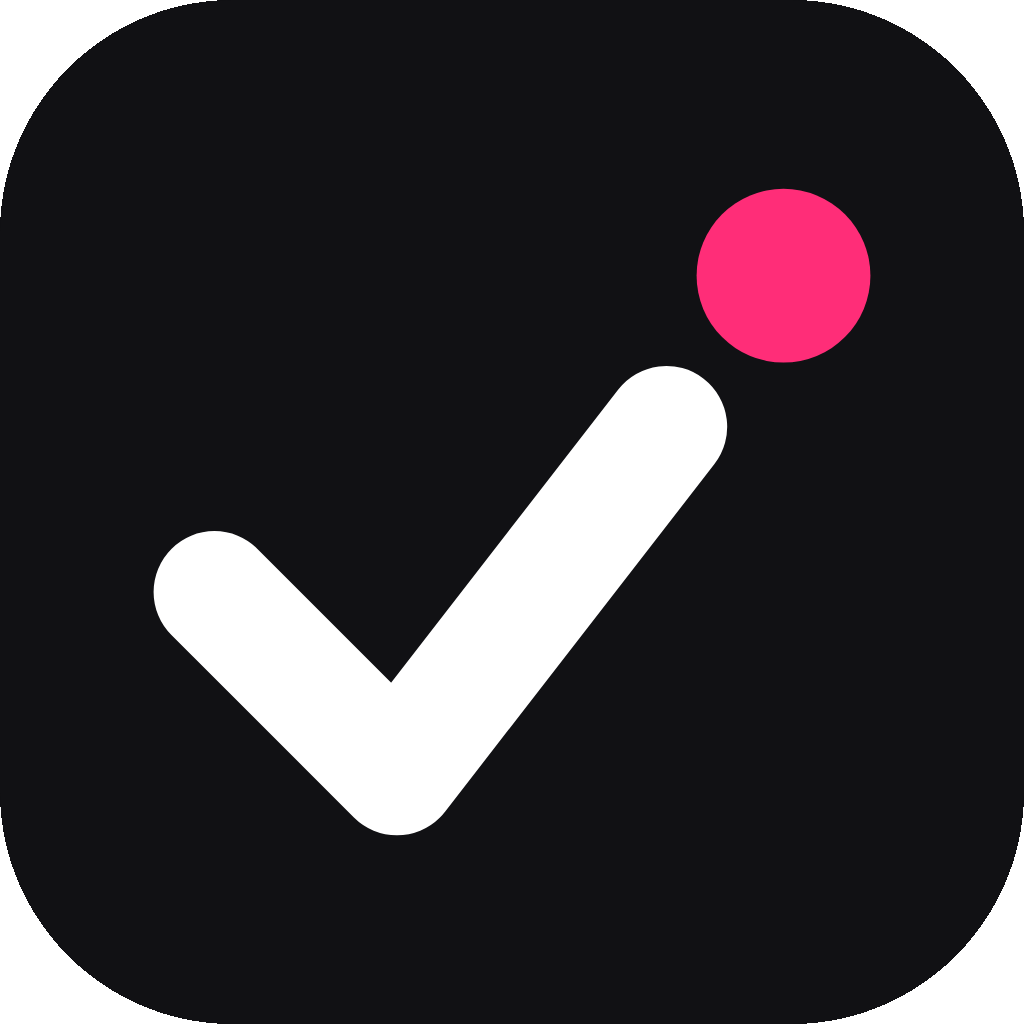
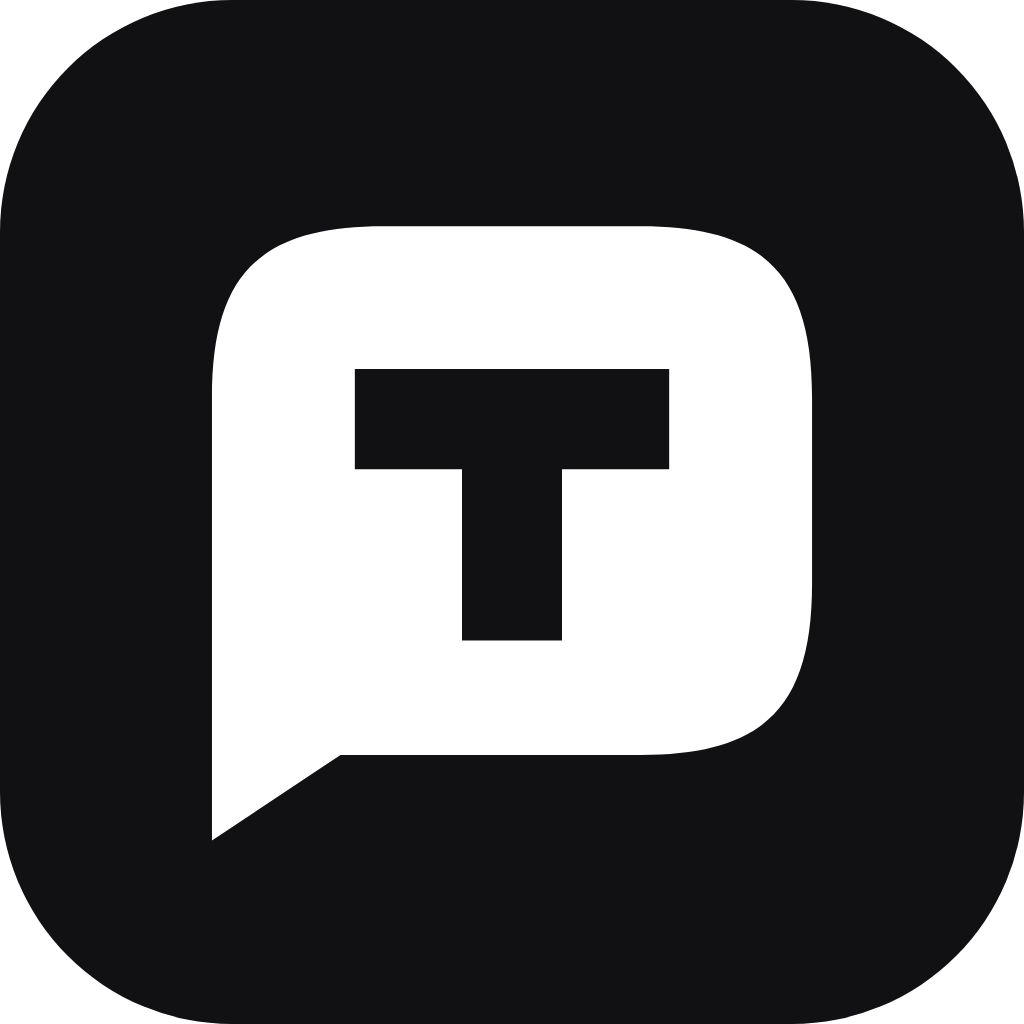
feat(brand): replace the "Call it" check with the First Word mark
A speech tile with a T knocked out, its bottom-left corner running out
to a point: making your call is the brand gesture, and the T keeps it
ours rather than a generic chat icon. Refined by hand from the GPT
concept the team picked (option B, "Corner").

- One colour: ink on light, warm white on dark. Pink stays on the
  wordmark's period and never goes on the mark (a magenta T is
  T-Mobile's territory), so the unused pink "brand" tone is removed.
- BrandMark size is now the mark's height (84 x 86 box); call sites move
  to 24px in headers beside 18px type. Height is set inline because
  Tailwind preflight's img { height: auto } would otherwise paint the
  SVG at its intrinsic size.
- Favicon is the bare mark, flipping to warm white on dark tabs;
  icon.png / apple-icon.png / taptrade-app-icon.svg are an ink tile with
  the mark in white.
- MARK_VERSION bumps to first-word-1 so cached /brand/* URLs refresh.

Changed region(s): [[0.125, 0.1875, 0.875, 0.8125]]

diff --git a/apps/taptrade-platform/frontend/packages/app/app/__tests__/brand-mark.test.ts b/apps/taptrade-platform/frontend/packages/app/app/__tests__/brand-mark.test.ts
@@ -1,49 +1,55 @@
 /**
- * Brand mark — "Call it" (2026-09-24): a check whose long stroke launches
- * into the pink tap dot. Pins the artwork's anatomy and colours so the
- * mark cannot drift back to the retired staircase glyph.
+ * Brand mark — "First Word" (2026-09-26): a speech tile with a T knocked
+ * out, its corner running out to a point. Pins the artwork's anatomy and
+ * colours so the mark cannot drift back to a retired glyph (the staircase,
+ * the "Call it" check) or pick up a pink T.
  */
 import { describe, it } from "node:test";
 import assert from "node:assert/strict";
-import { readFileSync } from "node:fs";
+import { existsSync, readFileSync } from "node:fs";
 import { resolve } from "node:path";
 
 const appRoot = resolve(__dirname, "..");
 const read = (rel: string) => readFileSync(resolve(appRoot, rel), "utf-8");
 
-describe("Call it brand mark", () => {
+describe("First Word brand mark", () => {
   const ink = read("../public/brand/taptrade-mark-ink.svg");
   const light = read("../public/brand/taptrade-mark-light.svg");
   const favicon = read("icon.svg");
   const icon = read("../public/brand/taptrade-app-icon.svg");
   const component = read("components/BrandMark.tsx");
 
-  it("is a round-stroked check plus a pink dot, on every tone", () => {
+  it("is one even-odd shape — tile, tail and knocked-out T — on every tone", () => {
     for (const svg of [ink, light, icon, favicon]) {
-      assert.match(svg, /stroke-linecap="round"/);
-      assert.match(svg, /stroke-linejoin="round"/);
-      assert.equal((svg.match(/<circle /g) ?? []).length, 1, "one tap dot");
+      assert.match(svg, /fill-rule="evenodd"/);
+      assert.match(svg, /H18L0 86V24/, "the tile's corner runs out to the tail point");
+      assert.match(svg, /M20 20H64V34H49V58H35V34H20Z/, "the knocked-out T");
+      assert.doesNotMatch(svg, /<circle|stroke-linecap/, "no check or tap dot from Call it");
     }
-    assert.match(ink, /stroke="#111114"/);
-    assert.match(ink, /fill="#E0126E"/);
-    assert.match(light, /stroke="#F4F3EF"/);
-    assert.match(light, /fill="#FF2D78"/);
+    assert.match(ink, /fill="#111114"/);
+    assert.match(light, /fill="#F4F3EF"/);
   });
 
-  it("ships the app icon as an ink tile with a white check", () => {
+  it("never puts brand pink on the mark", () => {
+    for (const svg of [ink, light, icon, favicon]) {
+      assert.doesNotMatch(svg, /#E0126E|#FF2D78/i);
+    }
+    assert.equal(existsSync(resolve(appRoot, "../public/brand/taptrade-mark-brand.svg")), false);
+  });
+
+  it("ships the app icon as an ink tile with a white mark", () => {
     assert.match(icon, /<rect width="256" height="256" rx="58" fill="#111114"\/>/);
-    assert.match(icon, /stroke="#FFFFFF"/);
+    assert.match(icon, /<path fill="#FFFFFF" fill-rule="evenodd"/);
   });
 
-  it("keeps the favicon tile-less so it never reads as a ticked checkbox", () => {
+  it("keeps the favicon tile-less and flips it to warm white on dark tabs", () => {
     assert.doesNotMatch(favicon, /<rect/);
-    assert.match(favicon, /prefers-color-scheme: dark/, "the check flips to warm white on dark tabs");
-    assert.match(favicon, /fill="#E0126E"/);
+    assert.match(favicon, /prefers-color-scheme: dark\)\{\.m\{fill:#F4F3EF\}/);
   });
 
   it("versions the mark URL so browsers never paint a cached old mark", () => {
-    assert.match(component, /const MARK_VERSION = "[^"]+";/);
-    for (const tone of ["brand", "ink", "light"]) {
+    assert.match(component, /const MARK_VERSION = "first-word-\d+";/);
+    for (const tone of ["ink", "light"]) {
       assert.match(
         component,
         new RegExp(`${tone}: \`/brand/taptrade-mark-${tone}\\.svg\\?v=\\$\\{MARK_VERSION\\}\``),
@@ -51,9 +57,11 @@ describe("Call it brand mark", () => {
     }
   });
 
-  it("keeps BrandMark on the mark's own proportions", () => {
-    assert.match(ink, /viewBox="0 0 80\.36 72\.10"/);
-    assert.match(component, /\(size \* 72\.1\) \/ 80\.36/);
-    assert.doesNotMatch(component, /17\.8604/, "the staircase ratio is retired");
+  it("sizes BrandMark by height on the mark's own proportions", () => {
+    assert.match(ink, /viewBox="0 0 84 86"/);
+    assert.match(component, /\(size \* 84\) \/ 86/);
+    assert.match(component, /height=\{size\}/);
+    assert.match(component, /style=\{\{ height: size, width: "auto" \}\}/, "preflight must not unsize the mark");
+    assert.doesNotMatch(component, /72\.1|17\.8604/, "retired mark ratios");
   });
 });

diff --git a/apps/taptrade-platform/frontend/packages/app/app/components/BrandMark.tsx b/apps/taptrade-platform/frontend/packages/app/app/components/BrandMark.tsx
@@ -1,19 +1,23 @@
 /**
- * Tap Trade brand mark — "Call it" (2026-09-24): a check (you called it)
- * whose long stroke launches into the pink tap dot.
+ * Tap Trade brand mark — "First Word" (2026-09-26): a speech tile with a T
+ * knocked out, its bottom-left corner running out to a point. Making your
+ * call is the brand gesture; the T keeps it ours rather than a chat icon.
  *
- * The artwork lives in public/brand/ as source SVGs (ink, light, brand);
- * app/icon.svg is the tile version for favicons and home-screen icons.
- * Geometry: 14-unit round stroke, 8.5-unit dot, tight 80.36 × 72.10 box.
+ * One colour on purpose: the pink lives on the wordmark's period, never on
+ * the T (a magenta T is T-Mobile's territory).
+ *
+ * The artwork lives in public/brand/ as source SVGs (ink, light);
+ * app/icon.svg is the favicon and public/brand/taptrade-app-icon.svg the
+ * home-screen tile. Geometry: 84 × 86 box, 74-unit tile, 14-unit T strokes.
  */
 
 import Image from "next/image";
 
-type BrandMarkTone = "brand" | "ink" | "light";
+type BrandMarkTone = "ink" | "light";
 
 type BrandMarkProps = {
   className?: string;
-  /** Width in pixels; the height follows the mark's 80.36 × 72.10 box. */
+  /** Height in pixels; the width follows the mark's 84 × 86 box. */
   size?: number;
   tone?: BrandMarkTone;
 };
@@ -22,31 +26,32 @@ type BrandMarkProps = {
 // browser cache under a stable filename, so without a new URL returning
 // visitors keep painting the previous mark (the staircase lingered after
 // the "Call it" deploy for exactly this reason).
-const MARK_VERSION = "call-it-1";
+const MARK_VERSION = "first-word-1";
 
 const MARK_SOURCE: Record<BrandMarkTone, string> = {
-  brand: `/brand/taptrade-mark-brand.svg?v=${MARK_VERSION}`,
   ink: `/brand/taptrade-mark-ink.svg?v=${MARK_VERSION}`,
   light: `/brand/taptrade-mark-light.svg?v=${MARK_VERSION}`,
 };
 
 export default function BrandMark({
   className = "",
-  size = 30,
+  size = 24,
   tone = "ink",
 }: BrandMarkProps) {
-  const height = (size * 72.1) / 80.36;
+  const width = (size * 84) / 86;
 
   return (
     <Image
       aria-hidden="true"
       alt=""
       className={`block shrink-0 object-contain ${className}`}
-      height={height}
+      height={size}
       src={MARK_SOURCE[tone]}
-      style={{ height: "auto" }}
+      // Preflight sets img { height: auto }, which would drop the height
+      // attribute and paint the SVG at its intrinsic 84 × 86.
+      style={{ height: size, width: "auto" }}
       unoptimized
-      width={size}
+      width={width}
     />
   );
 }

diff --git a/apps/taptrade-platform/frontend/packages/app/app/components/welcome/WelcomeSections.tsx b/apps/taptrade-platform/frontend/packages/app/app/components/welcome/WelcomeSections.tsx
@@ -68,7 +68,7 @@ export function WelcomeHeader() {
     <header className="sticky top-0 z-40 border-b border-[var(--border-1)] bg-[color-mix(in_srgb,var(--surface-1)_90%,transparent)] backdrop-blur-md">
       <div className={`${WRAP} flex h-16 items-center justify-between gap-4`}>
         <Link href="/" className="flex items-center gap-2.5 text-[var(--t1)] no-underline" aria-label="Tap Trade">
-          <BrandMark size={26} tone="ink" />
+          <BrandMark size={24} tone="ink" />
           <span className="text-[18px] font-bold tracking-[-0.03em]">
             Tap Trade<span className="text-[var(--brand-period)]">.</span>
           </span>
@@ -344,7 +344,7 @@ function StepVisualSettle() {
   const { t } = useTranslation("prediction");
   return (
     <div className="flex items-center gap-3 rounded-[12px] border border-[var(--border-1)] bg-[var(--surface-1)] p-3.5 shadow-[var(--shadow-card)]">
-      <BrandMark size={34} tone="ink" />
+      <BrandMark size={32} tone="ink" />
       <div>
         <p className="m-0 text-[14px] font-semibold text-[var(--t1)]">
           {t("LANDING_STEP3_EXAMPLE", "You called it")}
@@ -454,7 +454,7 @@ export function FinalCta() {
   return (
     <section className="bg-[var(--ink-deep)] py-24 text-[var(--poster-ink)] max-[640px]:py-16" aria-labelledby="welcome-final">
       <div className={`${WRAP} flex flex-col items-center text-center`}>
-        <BrandMark size={56} tone="light" />
+        <BrandMark size={52} tone="light" />
         <h2 id="welcome-final" className="m-0 mt-6 text-[52px] font-semibold leading-[1.05] tracking-[-0.045em] max-[640px]:text-[36px]">
           {t("LANDING_FINAL_TITLE", "Your first call is on us.")}
         </h2>
@@ -495,7 +495,7 @@ export function WelcomeFooter() {
       <div className={`${WRAP} flex flex-col gap-6`}>
         <div className="flex flex-wrap items-center justify-between gap-4">
           <span className="flex items-center gap-2 text-[16px] font-bold tracking-[-0.03em] text-[var(--t1)]">
-            <BrandMark size={22} tone="ink" />
+            <BrandMark size={20} tone="ink" />
             <span>
               Tap Trade<span className="text-[var(--brand-period)]">.</span>
             </span>

diff --git a/apps/taptrade-platform/frontend/packages/app/app/components/prediction/PredictFooter.tsx b/apps/taptrade-platform/frontend/packages/app/app/components/prediction/PredictFooter.tsx
@@ -31,7 +31,7 @@ export function PredictFooter() {
     <footer className="mt-10 border-t border-[var(--border-1)] bg-[var(--surface-1)] px-7 py-6 text-xs max-[640px]:px-5">
       <div className="flex flex-wrap items-center justify-between gap-4">
         <span className="inline-flex items-center gap-2.5 text-[19px] font-semibold leading-none tracking-[-0.025em] text-[var(--t1)]">
-          <BrandMark size={28} tone="ink" />
+          <BrandMark size={26} tone="ink" />
           <span>{brand.name}</span>
         </span>
         <div className="flex flex-wrap gap-x-5 gap-y-2">

diff --git a/apps/taptrade-platform/frontend/packages/app/app/auth/reset-password/page.tsx b/apps/taptrade-platform/frontend/packages/app/app/auth/reset-password/page.tsx
@@ -121,7 +121,7 @@ export default function ResetPasswordPage() {
       <Card as="div" padding="lg" className="w-full max-w-[440px]">
         <div className={HEAD_CLASS}>
           <div className={BRAND_ROW_CLASS}>
-            <BrandMark size={26} tone="ink" />
+            <BrandMark size={24} tone="ink" />
             <span className={BRAND_WORDMARK_CLASS}>
               {brand.name}
               <span className="text-[var(--brand-period)]" aria-hidden="true">

diff --git a/apps/taptrade-platform/frontend/packages/app/app/auth/forgot-password/page.tsx b/apps/taptrade-platform/frontend/packages/app/app/auth/forgot-password/page.tsx
@@ -39,7 +39,7 @@ export default function ForgotPasswordPage() {
       <Card as="div" padding="lg" className="w-full max-w-[440px]">
         <div className={HEAD_CLASS}>
           <div className={BRAND_ROW_CLASS}>
-            <BrandMark size={26} tone="ink" />
+            <BrandMark size={24} tone="ink" />
             <span className={BRAND_WORDMARK_CLASS}>
               {brand.name}
               <span className="text-[var(--brand-period)]" aria-hidden="true">

diff --git a/apps/taptrade-platform/frontend/packages/app/app/auth/verify-email/page.tsx b/apps/taptrade-platform/frontend/packages/app/app/auth/verify-email/page.tsx
@@ -57,7 +57,7 @@ export default function VerifyEmailPage() {
     <div className={SHELL_CLASS}>
       <Card as="div" padding="lg" className="w-full max-w-[440px] text-[var(--t1)]">
         <div className={BRAND_ROW_CLASS}>
-          <BrandMark size={26} tone="ink" />
+          <BrandMark size={24} tone="ink" />
           <span className={BRAND_WORDMARK_CLASS}>
             {brand.name}
             <span className="text-[var(--brand-period)]" aria-hidden="true">

diff --git a/apps/taptrade-platform/frontend/packages/app/app/auth/login/page.tsx b/apps/taptrade-platform/frontend/packages/app/app/auth/login/page.tsx
@@ -110,7 +110,7 @@ export default function LoginPage() {
       <Card as="div" padding="lg" className="w-full max-w-[440px]">
         <header className={HEAD_CLASS}>
           <div className={BRAND_ROW_CLASS}>
-            <BrandMark size={26} tone="ink" />
+            <BrandMark size={24} tone="ink" />
             <span className={BRAND_WORDMARK_CLASS}>
               {brand.name}
               <span className="text-[var(--brand-period)]" aria-hidden="true">

diff --git a/apps/taptrade-platform/frontend/packages/app/app/auth/register/page.tsx b/apps/taptrade-platform/frontend/packages/app/app/auth/register/page.tsx
@@ -222,7 +222,7 @@ export default function RegisterPage() {
           className={BRAND_ROW_CLASS}
           aria-label={`${brand.name} home`}
         >
-          <BrandMark size={26} tone="ink" />
+          <BrandMark size={24} tone="ink" />
           <span className={BRAND_WORDMARK_CLASS}>
             {brand.name}
             <span className="text-[var(--brand-period)]" aria-hidden="true">

diff --git a/apps/taptrade-platform/frontend/packages/app/app/components/prediction/TopBar.tsx b/apps/taptrade-platform/frontend/packages/app/app/components/prediction/TopBar.tsx
@@ -402,7 +402,7 @@ export function TopBar() {
           className={TOP_BAR_BRAND_CLASS}
           aria-label={`${brand.name} — home`}
         >
-          <BrandMark size={isTerminalRoute ? 24 : 26} tone="ink" />
+          <BrandMark size={isTerminalRoute ? 22 : 24} tone="ink" />
           <span
             className={
               isTerminalRoute

diff --git a/DESIGN.md b/DESIGN.md
@@ -120,13 +120,16 @@ together.
   read as objects on the paper; hover lifts to `--shadow-card-hover` with a
   border step. Rows inside a list (settings list, board rows) take a
   `--surface-2` wash instead. `--shadow-pop` is for floating layers only.
-- **Brand mark — "Call it"** (`BrandMark`, `public/brand/`): a round-stroked
-  check (you called it) whose long stroke launches into the pink tap dot.
-  Ink on light, warm white on dark; wordmark = mark + brand name + pink
-  period. The favicon (`app/icon.svg`) is tile-less with a heavier dot and
-  flips to warm white on dark tabs, so it never reads as a ticked checkbox;
-  home-screen icons (`app/icon.png`, `app/apple-icon.png`,
-  `public/brand/taptrade-app-icon.svg`) are an ink tile with a white check.
+- **Brand mark — "First Word"** (`BrandMark`, `public/brand/`): a speech
+  tile with a T knocked out, its bottom-left corner running out to a point —
+  making your call is the brand gesture. One colour: ink on light, warm
+  white on dark. The pink lives only on the wordmark's period, never on the
+  mark (a magenta T is T-Mobile's territory). Wordmark = mark + brand name
+  in Inter 700 + pink period; `BrandMark size` is the mark's height (24px
+  in headers beside 18px type). The favicon (`app/icon.svg`) is the bare
+  mark and flips to warm white on dark tabs; home-screen icons
+  (`app/icon.png`, `app/apple-icon.png`, `public/brand/taptrade-app-icon.svg`)
+  are an ink tile with the mark in white.
 - **Market images** (`MarketThumb`): every market carries a square image —
   its photo when it has one (falling back on load error), otherwise its
   category's icon on a soft tile of the category tint. 40px in cards, 48px
